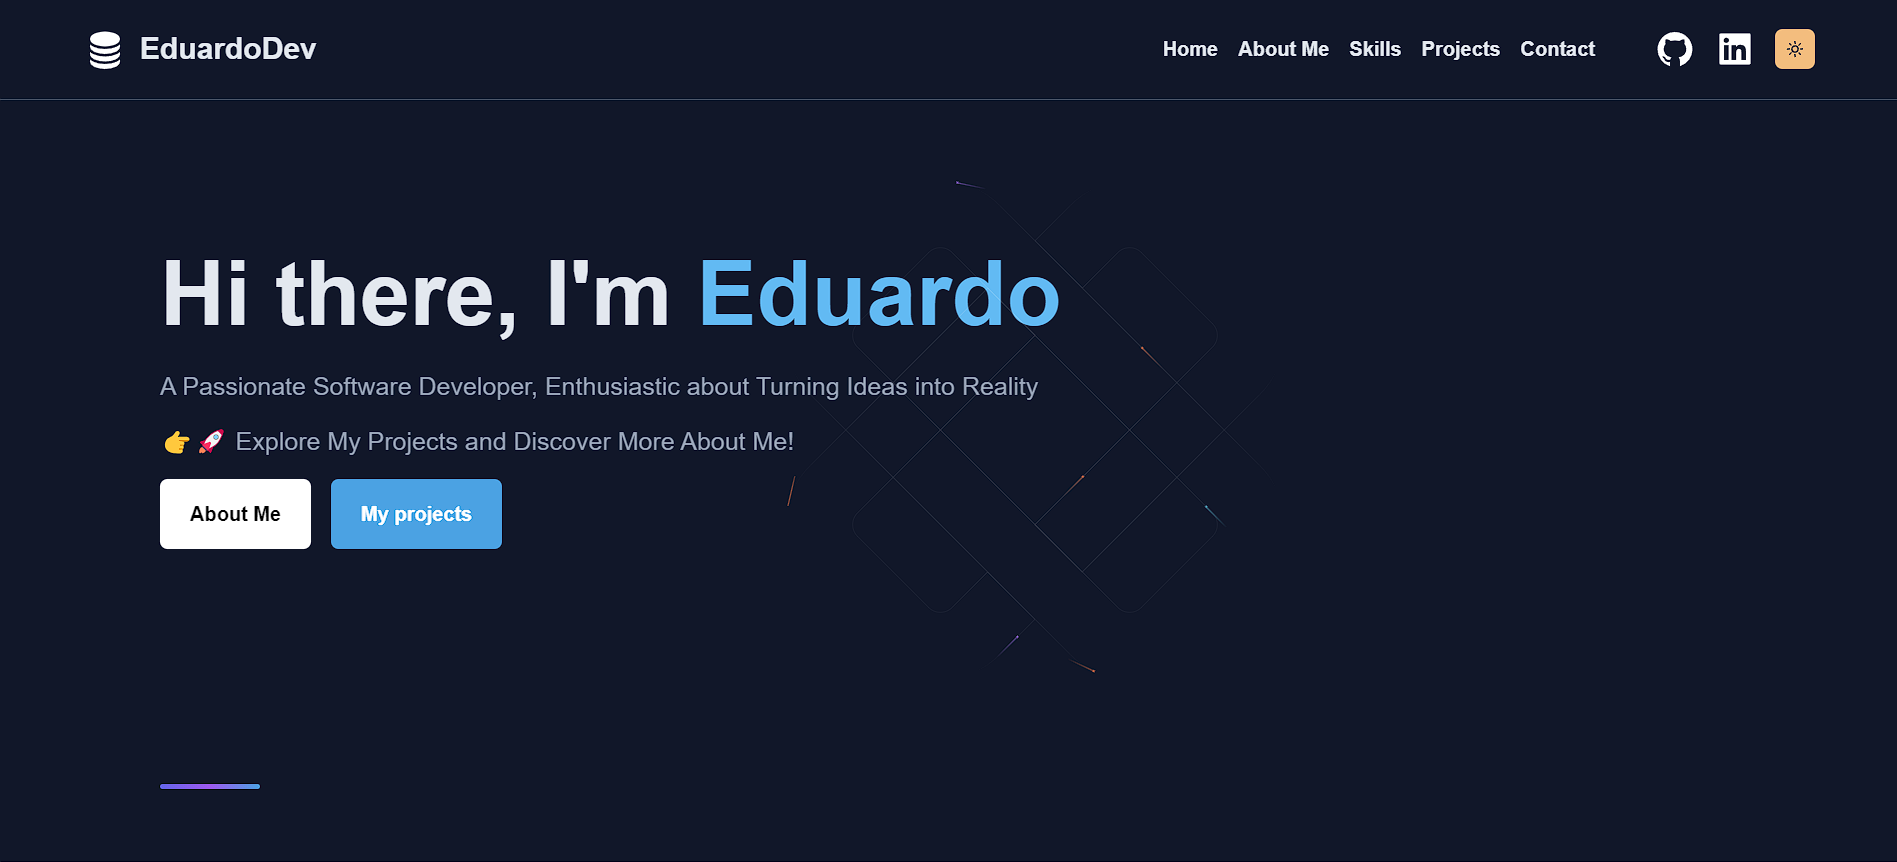
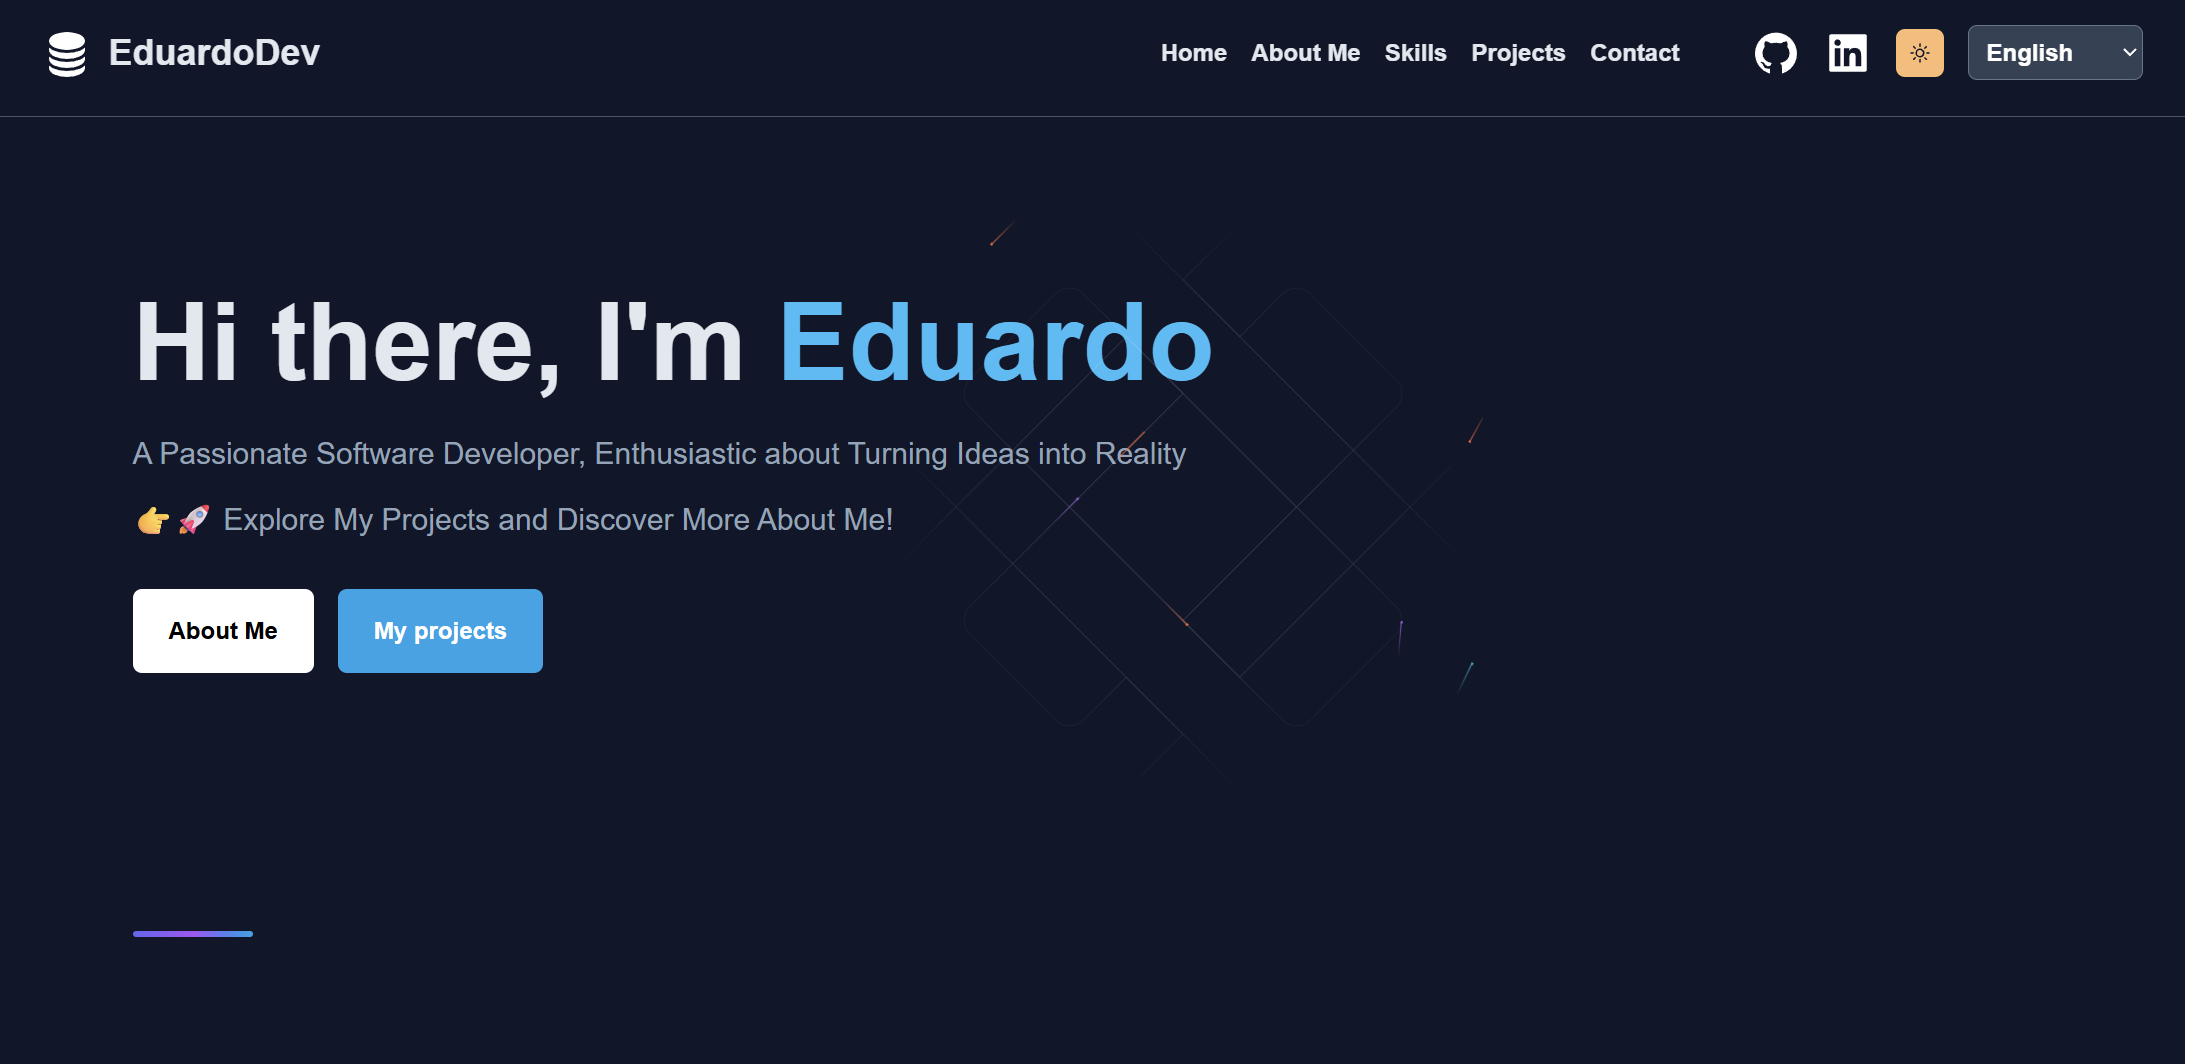
Added dark and light mode portfolio screenshots and updated readme

diff --git a/README.md b/README.md
@@ -15,7 +15,9 @@ Personal web portfolio showcasing my skills, projects, and contact information. 
 
 ## Screenshots  
 <div>  
-  <img src="public/assets/portfolio.png" alt="Portfolio Screenshot" style="width:2000px;" />  
+  <img src="public/assets/portfolio.png" alt="Portfolio Screenshot" style="width:2000px;" /> <br>
+  <img src="public/assets/portfolioLight.png" alt="Portfolio Screenshot" style="width:2000px;" />
+
 </div>  
 
 ## Setup  
